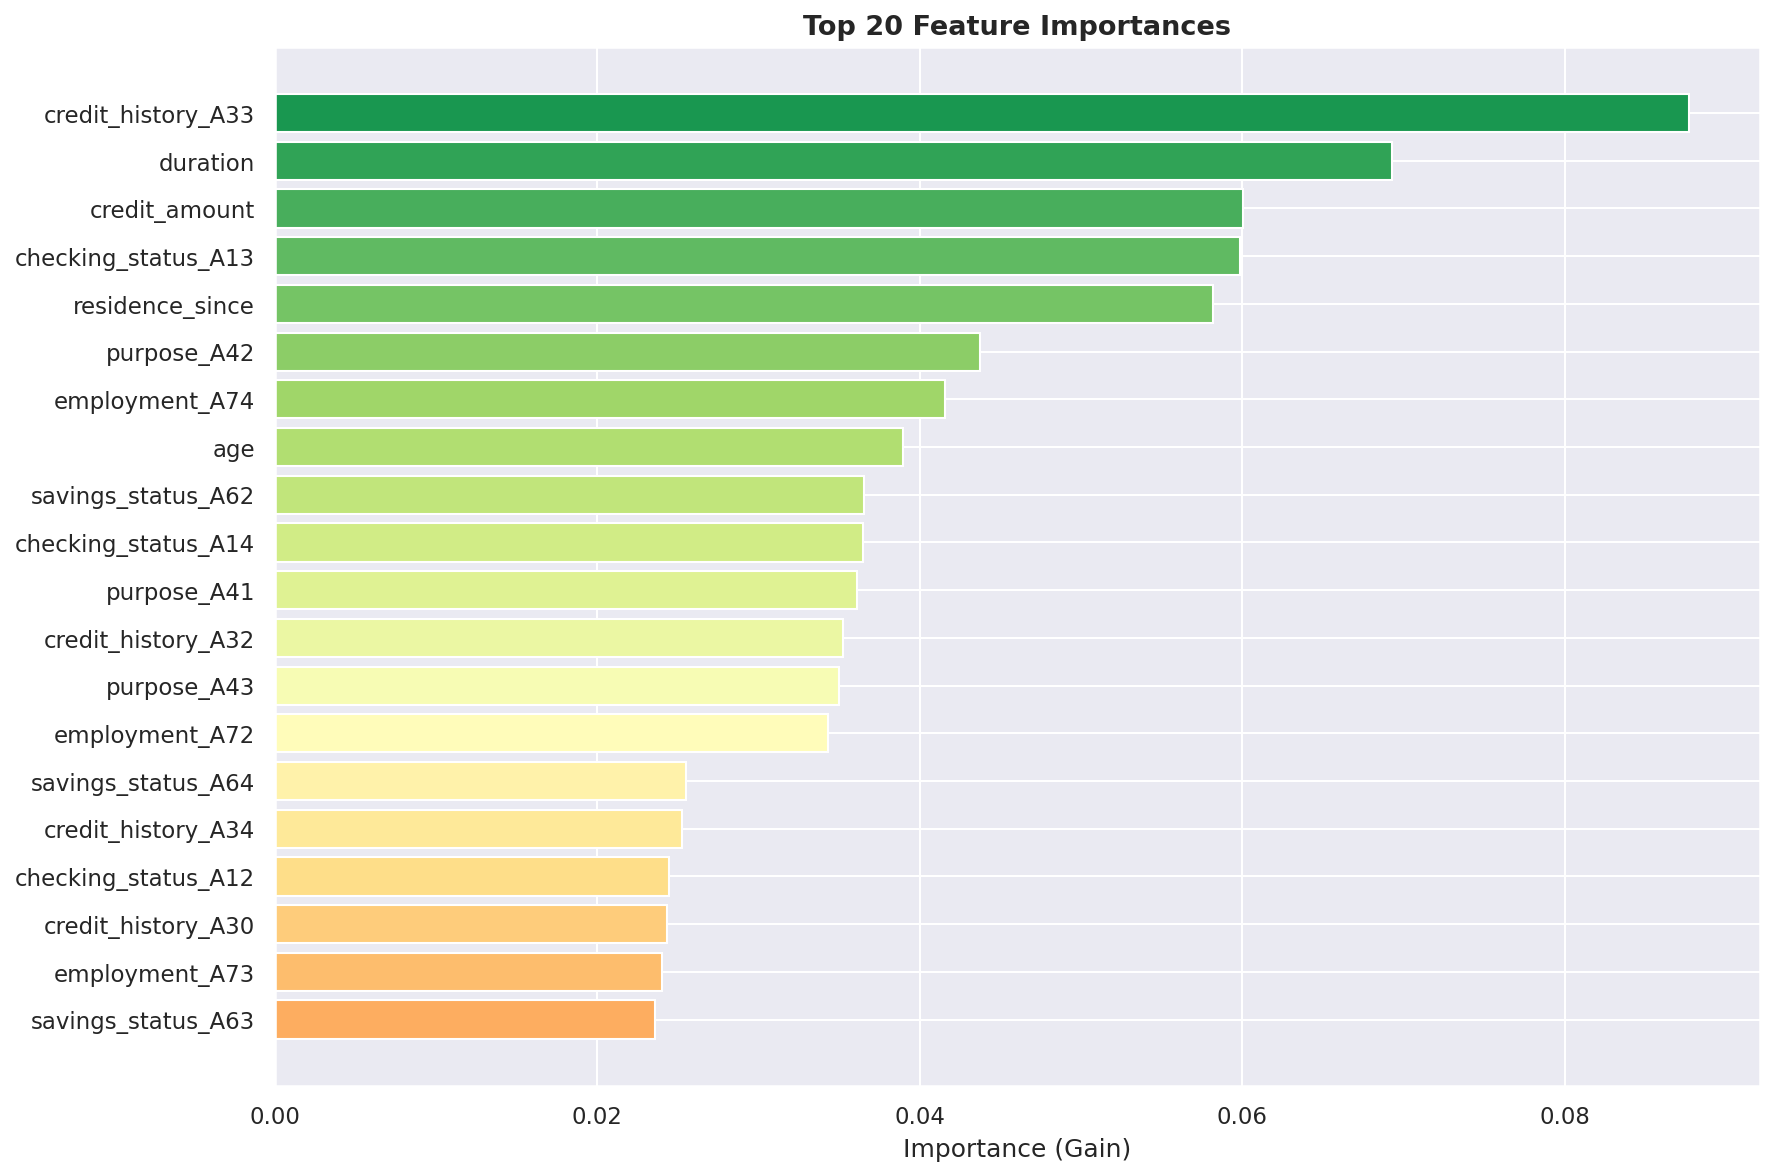
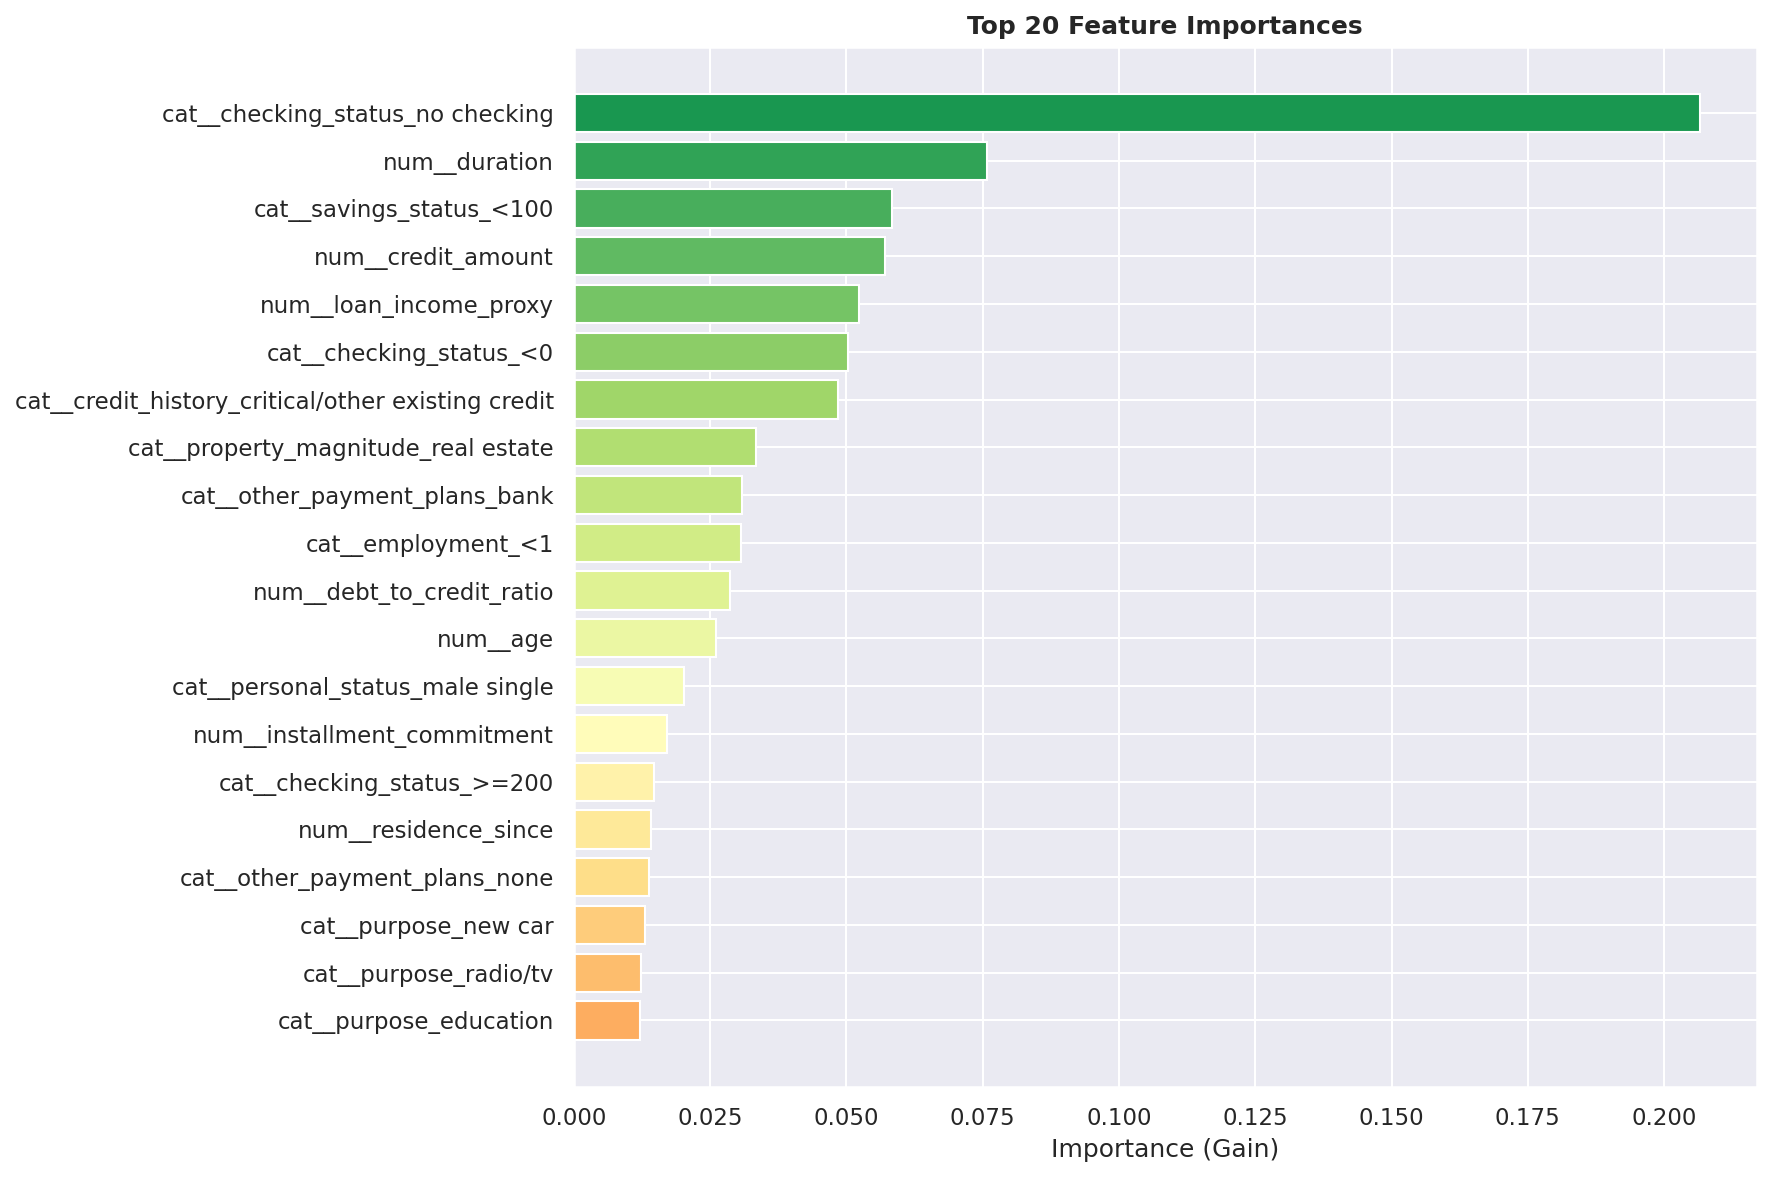
Fix badge rendering, regenerate charts from SMOTE-corrected model, add Visualizations section

diff --git a/README.md b/README.md
@@ -1,35 +1,8 @@
 # 🏦 Loan Default Risk Assessment
 
-[
+[![Python](https://img.shields.io/badge/Python-3.11+-3776AB?style=for-the-badge&logo=python&logoColor=white)](https://python.org) [![scikit-learn](https://img.shields.io/badge/scikit--learn-GradientBoosting-F7931E?style=for-the-badge)](https://scikit-learn.org) [![Flask](https://img.shields.io/badge/Flask-Gunicorn-000000?style=for-the-badge&logo=flask&logoColor=white)](https://flask.palletsprojects.com) [![License](https://img.shields.io/badge/License-MIT-C9A84C?style=for-the-badge)](LICENSE)
 
-![Python](https://img.shields.io/badge/Python-3.11+-3776AB?style=for-the-badge&logo=python&logoColor=white)
-
-](https://python.org)
-[
-
-![scikit-learn](https://img.shields.io/badge/scikit--learn-GradientBoosting-F7931E?style=for-the-badge)
-
-](https://scikit-learn.org)
-[
-
-![Flask](https://img.shields.io/badge/Flask-Gunicorn-000000?style=for-the-badge&logo=flask&logoColor=white)
-
-](https://flask.palletsprojects.com)
-[
-
-![License](https://img.shields.io/badge/License-MIT-C9A84C?style=for-the-badge)
-
-](LICENSE)
-[
-
-![Live API](https://img.shields.io/badge/Live%20API-Render-46E3B7?style=flat-square&logo=render)
-
-](https://loan-risk-assessment-nsdw.onrender.com/health)
-[
-
-![Live Dashboard](https://img.shields.io/badge/Dashboard-Live%20on%20Vercel-000000?style=flat-square&logo=vercel)
-
-](https://jameskoero-loan-risk-assessment-h84.vercel.app/)
+[![Live API](https://img.shields.io/badge/Live%20API-Render-46E3B7?style=flat-square&logo=render)](https://loan-risk-assessment-nsdw.onrender.com/health) [![Dashboard](https://img.shields.io/badge/Dashboard-Live%20on%20Vercel-000000?style=flat-square&logo=vercel)](https://jameskoero-loan-risk-assessment-h84.vercel.app/)
 
 **A live, deployed machine learning system for predicting loan default risk**, trained on the German Credit dataset with SMOTE class balancing and a business-cost-optimized decision threshold, served via a REST API and an interactive dashboard.
 
@@ -42,6 +15,7 @@
 - [Live Deployments](#-live-deployments)
 - [Overview](#-overview)
 - [Model Performance](#-model-performance)
+- [Visualizations](#-visualizations)
 - [Tech Stack](#-tech-stack)
 - [Project Structure](#-project-structure)
 - [Local Setup](#-local-setup)
@@ -60,17 +34,17 @@
 | **Health Check** | [/health](https://loan-risk-assessment-nsdw.onrender.com/health) | ✅ `{"status": "ok"}` confirmed |
 | **Dashboard** | [jameskoero-loan-risk-assessment-h84.vercel.app](https://jameskoero-loan-risk-assessment-h84.vercel.app/) | ✅ Live — static HTML/JS on Vercel |
 
-> ⚠ The API runs on Render's free tier — the first request after idle may take 30–60s to cold-start. Subsequent requests return quickly.
+> ⚠ The API runs on Render's free tier — the first request after idle may take 30–60s to cold-start.
 
 ---
 
 ## 🌍 Overview
 
-This repository trains and serves a `GradientBoostingClassifier` that predicts loan default probability from the German Credit dataset (OpenML id=31, 1,000 applicants, 20 features). SMOTE is applied to correct the dataset's 70/30 class imbalance, and the decision threshold is selected via a business cost matrix rather than the naive 0.5 cutoff — appropriate for a lender where missing a real defaulter is more costly than wrongly flagging a good applicant.
+This repository trains and serves a `GradientBoostingClassifier` that predicts loan default probability from the German Credit dataset (OpenML id=31, 1,000 applicants, 20 features). SMOTE is applied to correct the dataset's 70/30 class imbalance, and the decision threshold is selected via a business cost matrix rather than the naive 0.5 cutoff.
 
 | Output | Description |
 |---|---|
-| ⚡ **Prediction API** | FastAPI-style Flask endpoint — submit applicant data, receive a risk score in one request |
+| ⚡ **Prediction API** | Flask endpoint — submit applicant data, receive a risk score in one request |
 | 📊 **Interactive Dashboard** | Full applicant form with dropdowns for every German Credit field, live-connected to the API |
 | 🔍 **Cost-optimized threshold** | Business-tunable false-negative/false-positive cost matrix, not a fixed 0.5 cutoff |
 
@@ -79,7 +53,6 @@ This repository trains and serves a `GradientBoostingClassifier` that predicts l
 ## 📊 Model Performance
 
 > Model: **GradientBoostingClassifier**, GridSearchCV-tuned, trained on SMOTE-balanced folds.
-> Evaluation: stratified 80/20 train/test split, 5-fold cross-validation.
 
 | Metric | Score | Notes |
 |---|---|---|
@@ -92,9 +65,50 @@ This repository trains and serves a `GradientBoostingClassifier` that predicts l
 | **Recall at 0.22 threshold** | 0.833 | Catches 83.3% of real defaulters |
 | **F1 at 0.22 threshold** | 0.585 | Deployed operating point |
 
-**Best hyperparameters (GridSearchCV):** `learning_rate=0.05, max_depth=4, n_estimators=100, subsample=0.8`
+**Best hyperparameters:** `learning_rate=0.05, max_depth=4, n_estimators=100, subsample=0.8`
 
-**Why precision is lower at the deployed threshold:** the cost matrix (COST_FN=5, COST_FP=1) is deliberately conservative — missing a real defaulter is weighted 5× worse than wrongly flagging a good applicant. This trades precision for recall, appropriate for a lender prioritizing loss avoidance over approval volume. A higher threshold would raise precision and lower recall; 0.22 is a business choice, not a model limitation.
+**Why precision is lower at the deployed threshold:** the cost matrix (COST_FN=5, COST_FP=1) is deliberately conservative — missing a real defaulter is weighted 5× worse than wrongly flagging a good applicant.
+
+---
+
+## 🖼 Visualizations
+
+> Regenerated directly from the current SMOTE-corrected model — matches the metrics table above exactly.
+
+### Confusion Matrix
+
+
+![Confusion Matrix](images/confusion_matrix.png)
+
+
+
+### ROC Curve
+
+
+![ROC Curve](images/roc_curve.png)
+
+
+
+### Feature Importance
+
+
+![Feature Importance](images/feature_importance.png)
+
+
+
+### SHAP Summary — Global Feature Impact
+
+
+![SHAP Summary](images/shap_summary.png)
+
+
+
+### SHAP Waterfall — Individual Prediction
+
+
+![SHAP Waterfall](images/shap_waterfall.png)
+
+
 
 ---
 
@@ -110,8 +124,6 @@ This repository trains and serves a `GradientBoostingClassifier` that predicts l
 | Backend hosting | Render |
 | Frontend hosting | Vercel |
 | Training environment | Google Colab |
-
-> **Version pinning matters here.** An earlier deploy attempt failed because the serving environment's scikit-learn/numpy versions didn't match the exact versions used to train and pickle the model, raising an `InconsistentVersionWarning` and crashing on load. `requirements.txt` is now pinned exactly to the training environment.
 
 ---
 
